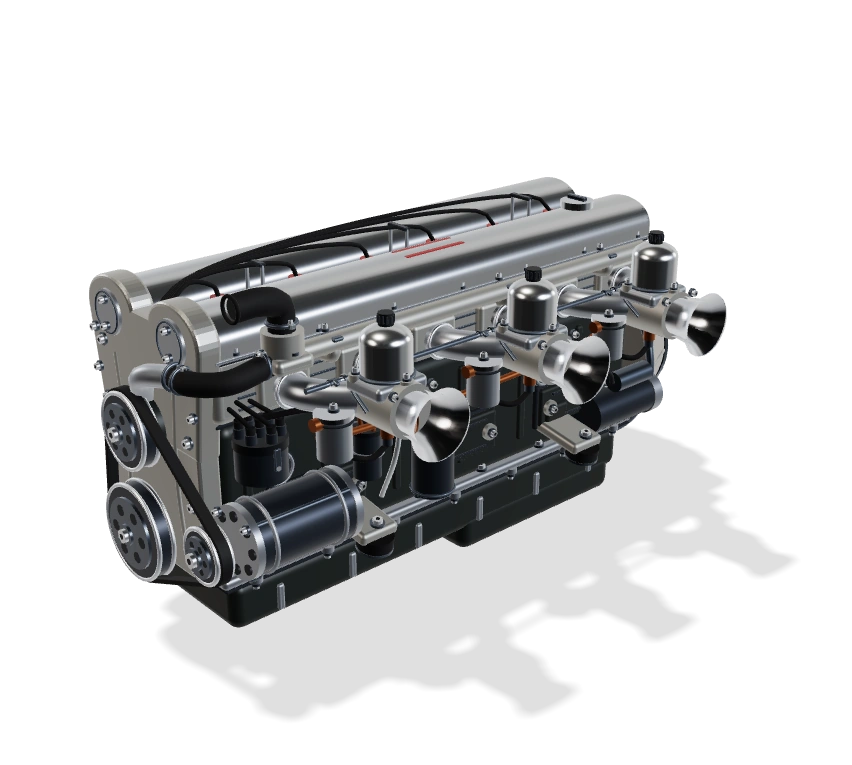
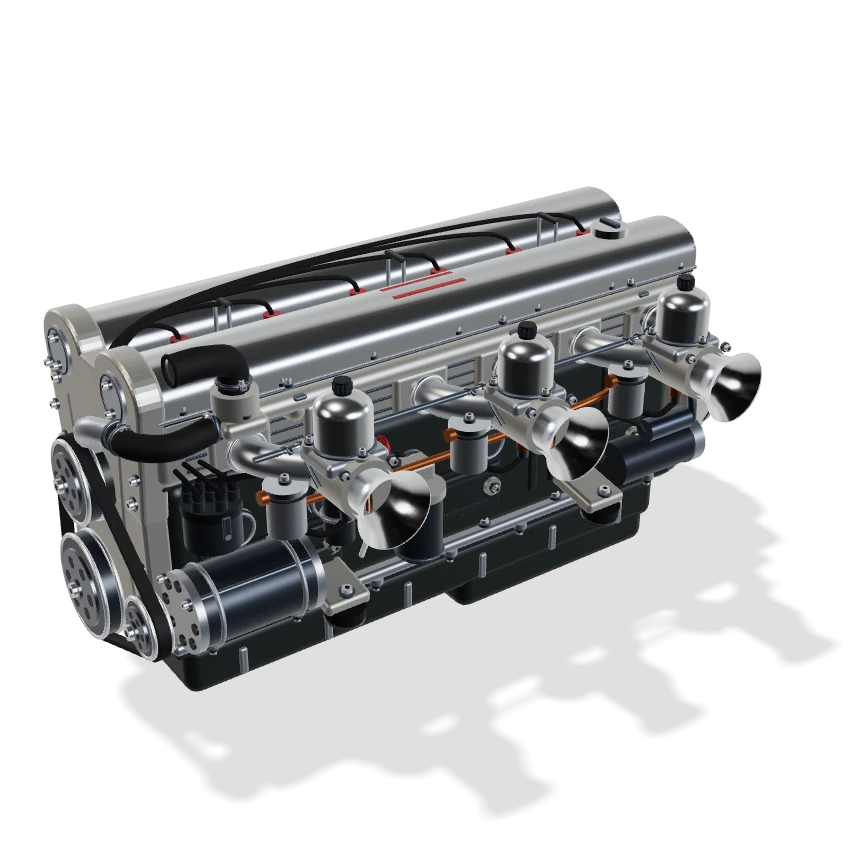
fix(site): prevent the hero engine from snapping on load

diff --git a/apps/site/src/engine-scene.test.js b/apps/site/src/engine-scene.test.js
@@ -1,0 +1,89 @@
+// @vitest-environment jsdom
+import { afterEach, beforeEach, expect, it, vi } from 'vitest';
+import { mountEngine } from './engine-scene';
+
+let worker, host, dispose, now, frames, reducedMotion;
+beforeEach(() => {
+  now = 100;
+  frames = new Map();
+  reducedMotion = false;
+  let nextFrame = 0;
+  vi.spyOn(performance, 'now').mockImplementation(() => now);
+  vi.stubGlobal('requestAnimationFrame', callback => {
+    frames.set(++nextFrame, callback);
+    return nextFrame;
+  });
+  vi.stubGlobal('cancelAnimationFrame', id => frames.delete(id));
+  vi.stubGlobal('Worker', class extends EventTarget {
+    postMessage = vi.fn();
+    terminate = vi.fn();
+    constructor() { super(); worker = this; }
+  });
+  vi.stubGlobal('ResizeObserver', class { observe() {} disconnect() {} });
+  vi.stubGlobal('IntersectionObserver', class { observe() {} disconnect() {} });
+  vi.stubGlobal('matchMedia', () => ({ get matches() { return reducedMotion; }, addEventListener() {} }));
+  vi.spyOn(document, 'hidden', 'get').mockReturnValue(false);
+  vi.stubGlobal('devicePixelRatio', 1);
+  Object.defineProperty(HTMLCanvasElement.prototype, 'transferControlToOffscreen', { configurable: true, value: () => ({}) });
+  host = document.createElement('div');
+  Object.defineProperties(host, { clientWidth: { value: 548 }, clientHeight: { value: 510 } });
+  document.body.append(host);
+});
+afterEach(() => {
+  dispose?.();
+  host.remove();
+  delete HTMLCanvasElement.prototype.transferControlToOffscreen;
+  vi.restoreAllMocks();
+  vi.unstubAllGlobals();
+});
+function tick(time) {
+  now = time;
+  const pending = [...frames.values()];
+  frames.clear();
+  pending.forEach(callback => callback(now));
+}
+function message(type) { worker.dispatchEvent(new MessageEvent('message', { data: { type } })); }
+function views() { return worker.postMessage.mock.calls.map(([value]) => value).filter(value => value.type === 'view'); }
+
+it('keeps the initial pose until the first frame is rendered, then rotates without catching up startup time', () => {
+  dispose = mountEngine(host);
+  expect(views()).toHaveLength(0);
+  message('ready');
+  tick(5000);
+  expect(views()).toHaveLength(1);
+  expect(views()[0].view.theta).toBe(Math.atan2(10, 7));
+  expect(views()[0].view.phi).toBe(Math.atan2(Math.hypot(10, 7), 6.5));
+  expect(frames.size).toBe(0);
+  expect(host.classList.contains('engine-loaded')).toBe(false);
+  tick(15000);
+  message('rendered');
+  expect(host.classList.contains('engine-loaded')).toBe(true);
+  tick(15020);
+  const rotation = views()[0].view.theta - views()[1].view.theta;
+  expect(rotation).toBeCloseTo(Math.PI * 2 / 60 * .28 * .02);
+  expect(frames.size).toBe(1);
+});
+
+it('shows the same stationary pose for reduced motion without running a continuous loop', () => {
+  reducedMotion = true;
+  dispose = mountEngine(host);
+  message('ready');
+  tick(5000);
+  message('rendered');
+  tick(5020);
+  expect(views().every(({ view }) => view.theta === Math.atan2(10, 7))).toBe(true);
+  expect(frames.size).toBe(0);
+});
+
+it('restores the preview and stops animation when the renderer fails after loading', () => {
+  vi.spyOn(console, 'error').mockImplementation(() => {});
+  dispose = mountEngine(host);
+  message('ready');
+  tick(5000);
+  message('rendered');
+  message('error');
+  expect(host.classList.contains('engine-loaded')).toBe(false);
+  expect(host.querySelector('canvas')).toBeNull();
+  expect(worker.terminate).toHaveBeenCalledOnce();
+  expect(frames.size).toBe(0);
+});

diff --git a/apps/site/src/engine-scene.ts b/apps/site/src/engine-scene.ts
@@ -16,7 +16,7 @@ export function mountEngine(host: HTMLElement) {
   canvas.setAttribute('aria-label', 'DOHC inline-six engine model. Grab and hold to pause. Drag or use arrow keys to rotate.');
   host.append(canvas);
   const motion = matchMedia('(prefers-reduced-motion: reduce)');
-  let ready = false, disposed = false, visible = true, dragging = false;
+  let ready = false, presented = false, disposed = false, visible = true, dragging = false;
   let frame = 0, last = 0, lastDraw = 0;
   let width = host.clientWidth, height = host.clientHeight;
 
@@ -25,10 +25,10 @@ export function mountEngine(host: HTMLElement) {
     if (!ready || disposed || !visible || document.hidden || !width || !height) return;
     if (now - lastDraw < 1000 / 60 - 1) { frame = requestAnimationFrame(draw); return; }
     lastDraw = now;
-    if (!motion.matches && !dragging) theta -= Math.PI * 2 / 60 * .28 * Math.min((now - last) / 1000, .05);
+    if (presented && !motion.matches && !dragging) theta -= Math.PI * 2 / 60 * .28 * Math.min((now - last) / 1000, .05);
     last = now;
     send({ type: 'view', view: { width, height, theta, phi } });
-    if (!motion.matches && !dragging) frame = requestAnimationFrame(draw);
+    if (presented && !motion.matches && !dragging) frame = requestAnimationFrame(draw);
   }
   function requestDraw() {
     if (!frame && ready && !disposed && visible && !document.hidden) {
@@ -90,7 +90,11 @@ export function mountEngine(host: HTMLElement) {
     if (data.type === 'ready') {
       ready = true;
       fit();
-    } else if (data.type === 'rendered') host.classList.add('engine-loaded');
+    } else if (data.type === 'rendered') {
+      presented = true;
+      host.classList.add('engine-loaded');
+      requestDraw();
+    }
     else {
       console.error('Unable to render the dohc engine', data.message, data.stack ?? '');
       dispose();

diff --git a/apps/site/index.html b/apps/site/index.html
@@ -89,7 +89,7 @@
     </div>
     <figure class="hero-engine">
       <div class="hero-engine-view" data-engine-host role="group" aria-label="Interactive DOHC inline-six engine model">
-        <img class="hero-engine-poster" src="/inline-six-engine.webp" srcset="/inline-six-engine-480.webp 480w, /inline-six-engine.webp 852w" sizes="(max-width: 780px) 90vw, (min-width: 1240px) 550px, 42vw" width="852" height="765" fetchpriority="high" alt="Jaguar XK-inspired inline-six engine with sealed polished aluminum cam covers, triple carburetors and curved exhaust headers." />
+        <img class="hero-engine-poster" src="/inline-six-engine.webp" srcset="/inline-six-engine-480.webp 480w, /inline-six-engine.webp 852w" sizes="(max-width: 780px) 90vw, (min-width: 1240px) 550px, 42vw" width="852" height="852" fetchpriority="high" alt="Jaguar XK-inspired inline-six engine with sealed polished aluminum cam covers, triple carburetors and curved exhaust headers." />
       </div>
     </figure>
   </section>

diff --git a/apps/site/src/engine-renderer.worker.ts b/apps/site/src/engine-renderer.worker.ts
@@ -87,10 +87,11 @@ async function initialize(canvas: OffscreenCanvas, pixelRatio: number, studioUrl
       width = view.width; height = view.height;
       renderer.setSize(width, height, false);
       camera.aspect = width / height;
+      const halfFov = THREE.MathUtils.degToRad(33 / 2);
+      // Keep the square preview's perspective and object-fit: contain framing.
+      camera.fov = THREE.MathUtils.radToDeg(2 * Math.atan(Math.tan(halfFov) / Math.min(1, camera.aspect)));
       camera.updateProjectionMatrix();
-      const halfFov = THREE.MathUtils.degToRad(camera.fov / 2);
-      const limitingFov = Math.min(halfFov, Math.atan(Math.tan(halfFov) * camera.aspect));
-      distance = radius / Math.sin(limitingFov) * .83;
+      distance = radius / Math.sin(halfFov) * .83;
     }
     camera.position.setFromSphericalCoords(distance, view.phi, view.theta).add(center);
     camera.lookAt(center);

diff --git a/apps/site/styles.css b/apps/site/styles.css
@@ -436,9 +436,10 @@ body {
 .hero-engine { min-width: 0; position: relative; }
 .hero-engine-view { position: relative; width: 100%; height: 510px; }
 .hero-engine-view canvas, .hero-engine-poster { display: block; width: 100%; height: 100%; object-fit: contain; }
-.hero-engine-view canvas { position: absolute; inset: 0; cursor: grab; }
+.hero-engine-view canvas { position: absolute; inset: 0; cursor: grab; visibility: hidden; }
 .hero-engine-view canvas:active { cursor: grabbing; }
 .hero-engine-view canvas:focus-visible { outline: 1px solid var(--muted); outline-offset: 3px; border-radius: 8px; }
+.hero-engine-view.engine-loaded canvas { visibility: visible; }
 .engine-loaded .hero-engine-poster { visibility: hidden; }
 @media (max-width: 780px) {
   .hero-with-engine { grid-template-columns: 1fr; text-align: center; gap: 28px; }
